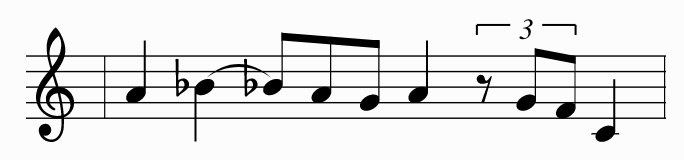
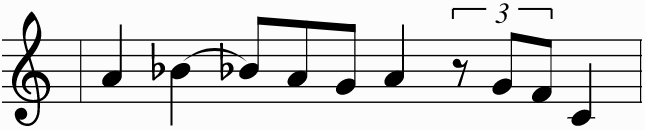
img crop, kill last of type border

Changed region(s): [[0.0, 0.0923, 1.0, 0.9846], [0.6822, 0.0308, 0.8682, 0.2462]]

diff --git a/index.html b/index.html
@@ -15,6 +15,11 @@
       border-bottom: 1px solid #aaa;
       margin-bottom: 3rem;
     }
+
+    div.entry:last-of-type {
+      border: none;
+    }
+
     div.entry p.timestamp {
       color: gray;
       font-family: Verdana, Arial, sans-serif;
@@ -26,9 +31,6 @@
       margin-top: 0;
     }
 
-    img {
-      max-width: 100%;
-    }
   </style>
 </head>
 
